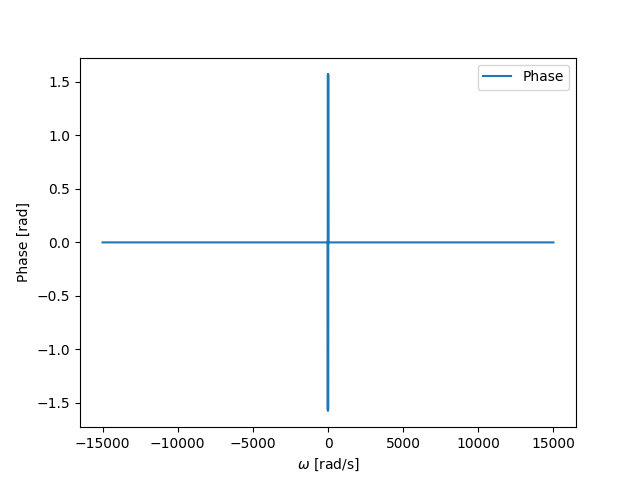
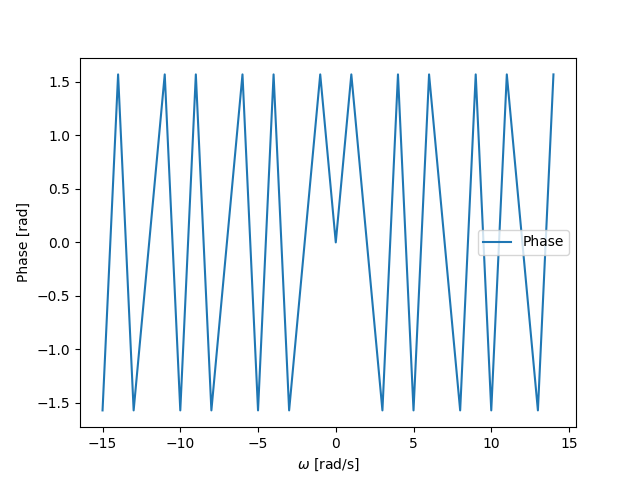
2b_forts

diff --git a/Assignment 2/Assignment2.py b/Assignment 2/Assignment2.py
@@ -66,10 +66,10 @@ def get_nth_f_trans(n, w0, w, dw):
     arr[bool_arr] = bn*1j*np.pi/dw
     return arr
     
-w_arr = np.arange(-15*10**3, 15*10**3, 1)
+w_arr = np.arange(-15*10**0, 15*10**0, 1)
 
 res_arr = np.zeros(w_arr.shape)
-for n in range(1, 10):
+for n in range(1, 1000):
     res_arr = res_arr + get_nth_f_trans(n, 2*np.pi/5, w_arr, 1)
 
 
